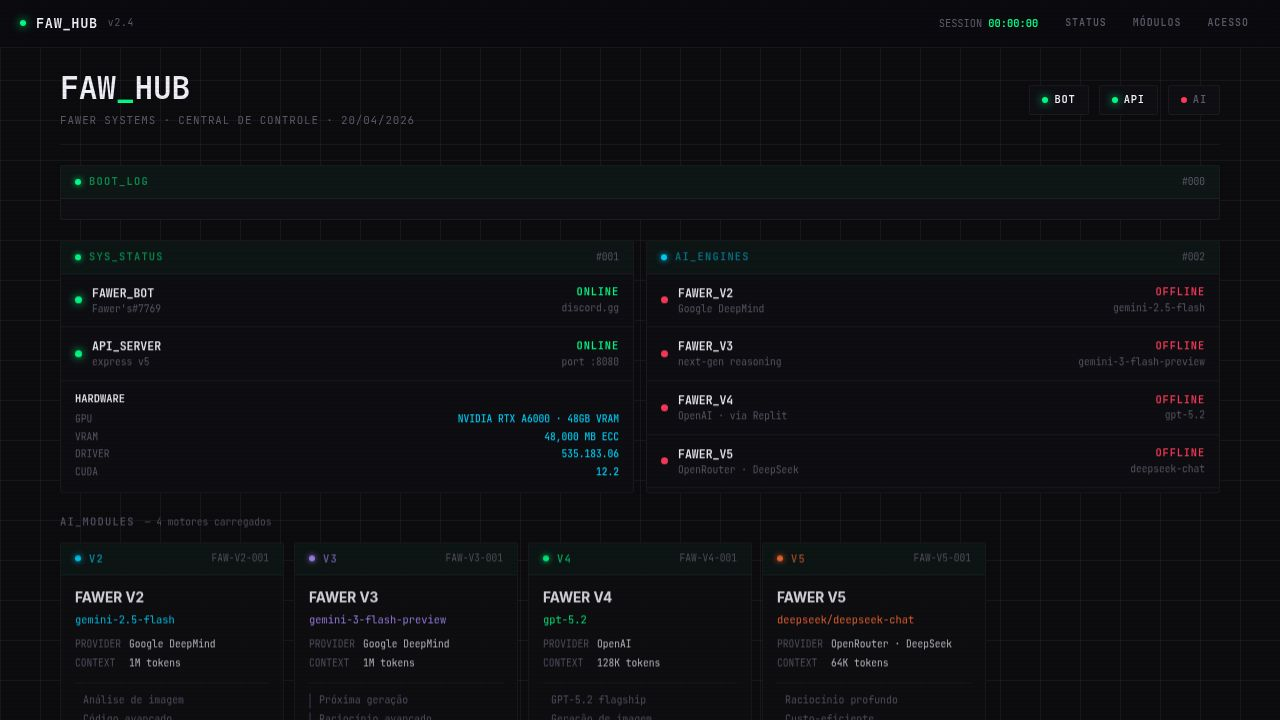
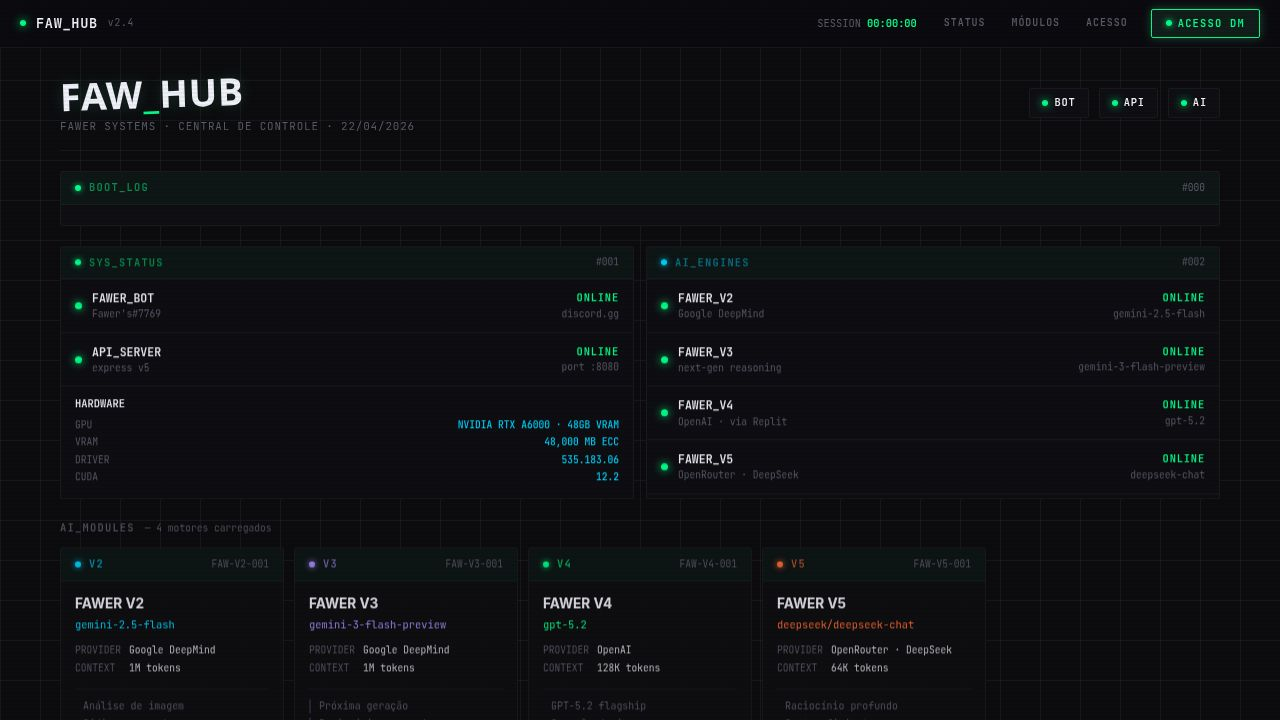
Make direct messaging panel accessible without login
Removes authentication gates from API routes and UI components, allowing public access to the direct messaging features and adds a prominent "ACESSO DM" button to the header.

Replit-Commit-Author: Agent
Replit-Commit-Session-Id: 796cc7f9-9cd6-4b81-8e47-52bf467a5982
Replit-Commit-Checkpoint-Type: full_checkpoint
Replit-Commit-Event-Id: 4d4d91f6-aa13-40f0-8838-57c6dfec7205
Replit-Commit-Screenshot-Url: https://storage.googleapis.com/screenshot-production-us-central1/d626f71f-78c9-4005-85b0-ce7ce1f862f7/796cc7f9-9cd6-4b81-8e47-52bf467a5982/jLdi6jv
Replit-Helium-Checkpoint-Created: true

diff --git a/artifacts/fawer-web/src/components/HubDM.tsx b/artifacts/fawer-web/src/components/HubDM.tsx
@@ -237,10 +237,11 @@ export default function HubDM({ me }: { me: MeData | null }) {
   const fileRef = useRef<HTMLInputElement>(null);
   const historyRef = useRef<HTMLDivElement>(null);
 
-  const isOwner = me?.isOwner === true;
+  // Acesso liberado: quem abre o site, abre o painel.
+  const isOwner = true;
+  void me;
 
   useEffect(() => {
-    if (!isOwner) { setLoadingUsers(false); return; }
     fetch("/api/hub/users", { credentials: "include" })
       .then((r) => r.json())
       .then((d: { users?: HubUser[] }) => setUsers(d.users ?? []))
@@ -337,57 +338,8 @@ export default function HubDM({ me }: { me: MeData | null }) {
 
   const selected = users.find((u) => u.userId === selectedId) ?? null;
 
-  if (!me) {
-    return (
-      <div>
-        <div style={{ marginBottom: 12 }}>
-          <span style={{ fontFamily: "var(--mono)", fontSize: "0.65rem", fontWeight: 700, letterSpacing: "0.12em", color: "var(--text-dim)" }}>
-            HUB_DM · PAINEL DE MENSAGENS DIRETAS
-          </span>
-        </div>
-        <div style={{ ...S.panel, justifyContent: "center", alignItems: "center", gap: 16 }}>
-          <div style={{ fontFamily: "var(--mono)", fontSize: "0.65rem", color: "var(--text-dim)", letterSpacing: "0.08em" }}>
-            VERIFICANDO SESSÃO...
-          </div>
-        </div>
-      </div>
-    );
-  }
-
-  if (!isOwner) {
-    return (
-      <div>
-        <div style={{ marginBottom: 12 }}>
-          <span style={{ fontFamily: "var(--mono)", fontSize: "0.65rem", fontWeight: 700, letterSpacing: "0.12em", color: "var(--text-dim)" }}>
-            HUB_DM · PAINEL DE MENSAGENS DIRETAS
-          </span>
-        </div>
-        <div style={{ ...S.panel, justifyContent: "center", alignItems: "center", flexDirection: "column", gap: 14 }}>
-          <div style={{ fontFamily: "var(--mono)", fontSize: "0.65rem", color: "var(--text-dim)", letterSpacing: "0.08em", textAlign: "center" }}>
-            {me.authenticated
-              ? "ACESSO NEGADO · SOMENTE O DONO DO HUB PODE ACESSAR ESTE PAINEL"
-              : "FAÇA LOGIN COM O DISCORD PARA ACESSAR ESTE PAINEL"}
-          </div>
-          {!me.authenticated && (
-            <a
-              href="/api/auth/discord"
-              style={{
-                ...S.btn("primary"),
-                textDecoration: "none",
-                display: "inline-block",
-                padding: "8px 20px",
-              }}
-            >
-              ▶ LOGIN COM DISCORD
-            </a>
-          )}
-        </div>
-      </div>
-    );
-  }
-
   return (
-    <div>
+    <div id="hub-dm">
       <div style={{ marginBottom: 12 }}>
         <span
           style={{

diff --git a/artifacts/api-server/src/routes/hub.ts b/artifacts/api-server/src/routes/hub.ts
@@ -1,7 +1,6 @@
-import { Router, type Request, type Response, type NextFunction } from "express";
+import { Router } from "express";
 import { readdir, readFile } from "fs/promises";
 import { join } from "path";
-import { getSession } from "../lib/session.js";
 
 const router = Router();
 
@@ -9,23 +8,8 @@ const MEMORY_DIR = process.env.MEMORY_DIR
   ? process.env.MEMORY_DIR
   : join(process.cwd(), "../../data/memory");
 const BOT_TOKEN = process.env.DISCORD_TOKEN || process.env.DISCORD_BOT_TOKEN || "";
-const OWNER_IDS = (process.env.OWNER_IDS || process.env.OWNER_ID || "892469618063589387")
-  .split(",")
-  .map((s) => s.trim())
-  .filter(Boolean);
-
-function requireOwner(req: Request, res: Response, next: NextFunction): void {
-  const session = getSession(req);
-  if (!session || session.type !== "discord") {
-    res.status(401).json({ error: "Não autenticado." });
-    return;
-  }
-  if (!OWNER_IDS.includes(session.discordId ?? "")) {
-    res.status(403).json({ error: "Acesso negado. Apenas o dono do Hub pode usar isso." });
-    return;
-  }
-  next();
-}
+// Acesso público ao Hub: quem tem o site, tem o painel.
+// (Mantido sem requireOwner para permitir leitura/envio de DMs sem login.)
 
 interface MemoryEntry {
   role: string;
@@ -57,7 +41,7 @@ async function openDmChannel(userId: string): Promise<string> {
   return data.id;
 }
 
-router.get("/users", requireOwner, async (_req, res) => {
+router.get("/users", async (_req, res) => {
   try {
     const files = await readdir(MEMORY_DIR);
     const jsonFiles = files.filter((f) => f.endsWith(".json") && !f.startsWith("global") && !f.startsWith("provider"));
@@ -94,7 +78,7 @@ router.get("/users", requireOwner, async (_req, res) => {
   }
 });
 
-router.get("/conversation/:userId", requireOwner, async (req, res) => {
+router.get("/conversation/:userId", async (req, res) => {
   try {
     const filePath = join(MEMORY_DIR, `${req.params.userId}.json`);
     const raw = await readFile(filePath, "utf-8");
@@ -105,7 +89,7 @@ router.get("/conversation/:userId", requireOwner, async (req, res) => {
   }
 });
 
-router.post("/dm", requireOwner, async (req, res) => {
+router.post("/dm", async (req, res) => {
   const { userId, content } = req.body as { userId?: string; content?: string };
 
   if (!userId?.trim() || !content?.trim()) {
@@ -138,7 +122,7 @@ router.post("/dm", requireOwner, async (req, res) => {
   }
 });
 
-router.post("/dm/image", requireOwner, async (req, res) => {
+router.post("/dm/image", async (req, res) => {
   const { userId, base64, filename, caption } = req.body as {
     userId?: string;
     base64?: string;

diff --git a/artifacts/fawer-web/src/components/Header.tsx b/artifacts/fawer-web/src/components/Header.tsx
@@ -76,7 +76,7 @@ export default function Header({ apiOnline }: Props) {
       </div>
 
       {/* Nav */}
-      <nav style={{ display: "flex", gap: 4 }}>
+      <nav style={{ display: "flex", gap: 4, alignItems: "center" }}>
         {[
           { label: "STATUS", href: "#status" },
           { label: "MÓDULOS", href: "#modules" },
@@ -111,6 +111,54 @@ export default function Header({ apiOnline }: Props) {
             {item.label}
           </a>
         ))}
+
+        {/* Botão de destaque — ACESSO DM */}
+        <a
+          href="#hub-dm"
+          onClick={(e) => {
+            e.preventDefault();
+            const el = document.getElementById("hub-dm");
+            if (el) el.scrollIntoView({ behavior: "smooth", block: "start" });
+          }}
+          style={{
+            fontFamily: "var(--mono)",
+            fontSize: "0.65rem",
+            fontWeight: 700,
+            letterSpacing: "0.12em",
+            color: "var(--green)",
+            textDecoration: "none",
+            padding: "6px 14px",
+            marginLeft: 8,
+            border: "1px solid var(--green)",
+            borderRadius: "2px",
+            background: "rgba(105, 255, 180, 0.08)",
+            boxShadow: "0 0 10px rgba(105, 255, 180, 0.25)",
+            transition: "all 0.15s",
+            display: "inline-flex",
+            alignItems: "center",
+            gap: 6,
+          }}
+          onMouseEnter={(e) => {
+            (e.currentTarget as HTMLAnchorElement).style.background = "rgba(105, 255, 180, 0.18)";
+            (e.currentTarget as HTMLAnchorElement).style.boxShadow = "0 0 18px rgba(105, 255, 180, 0.55)";
+          }}
+          onMouseLeave={(e) => {
+            (e.currentTarget as HTMLAnchorElement).style.background = "rgba(105, 255, 180, 0.08)";
+            (e.currentTarget as HTMLAnchorElement).style.boxShadow = "0 0 10px rgba(105, 255, 180, 0.25)";
+          }}
+        >
+          <span
+            style={{
+              width: 6,
+              height: 6,
+              borderRadius: "50%",
+              background: "var(--green)",
+              boxShadow: "0 0 6px var(--green)",
+              display: "inline-block",
+            }}
+          />
+          ACESSO DM
+        </a>
       </nav>
     </header>
   );
